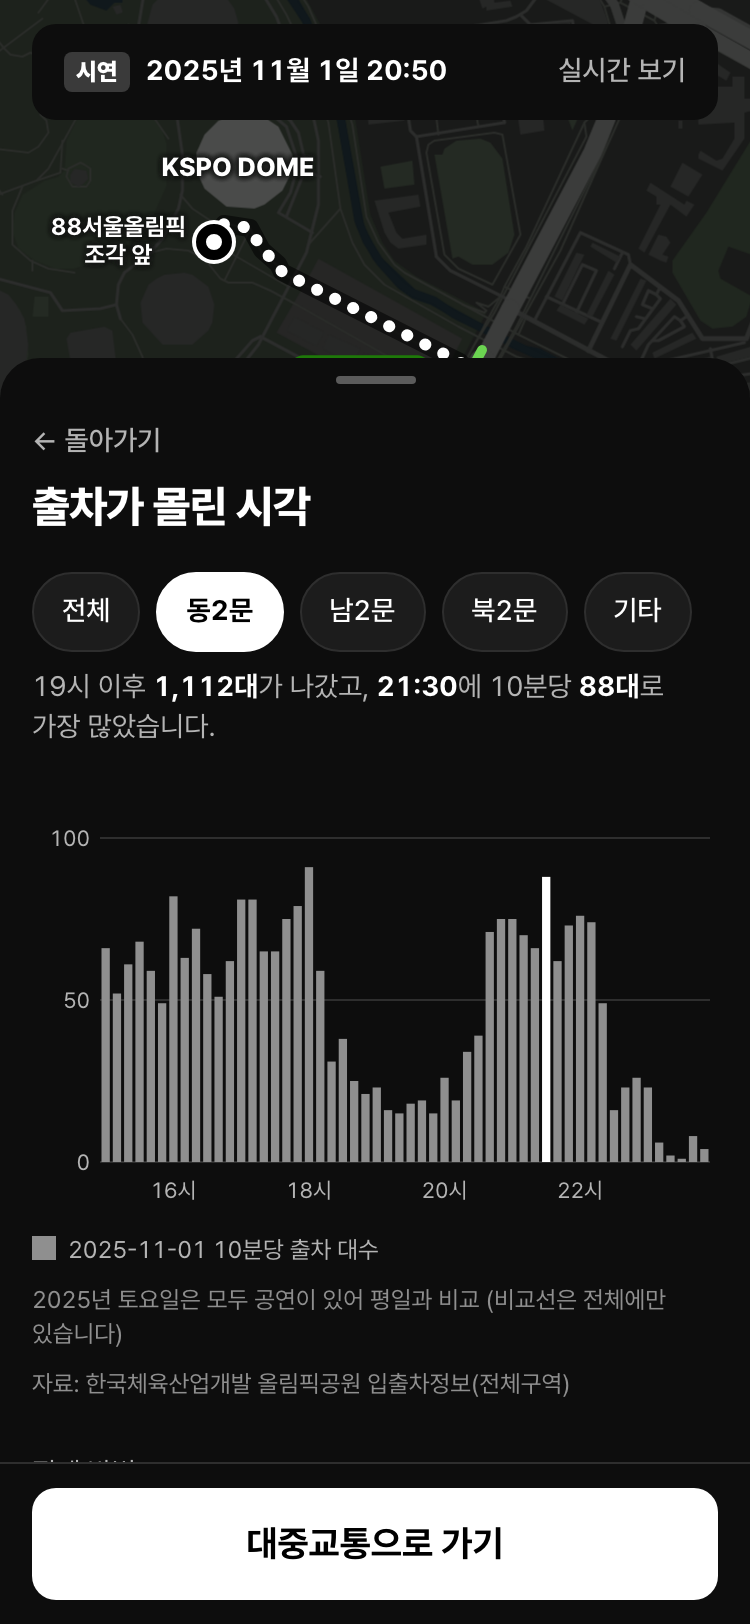
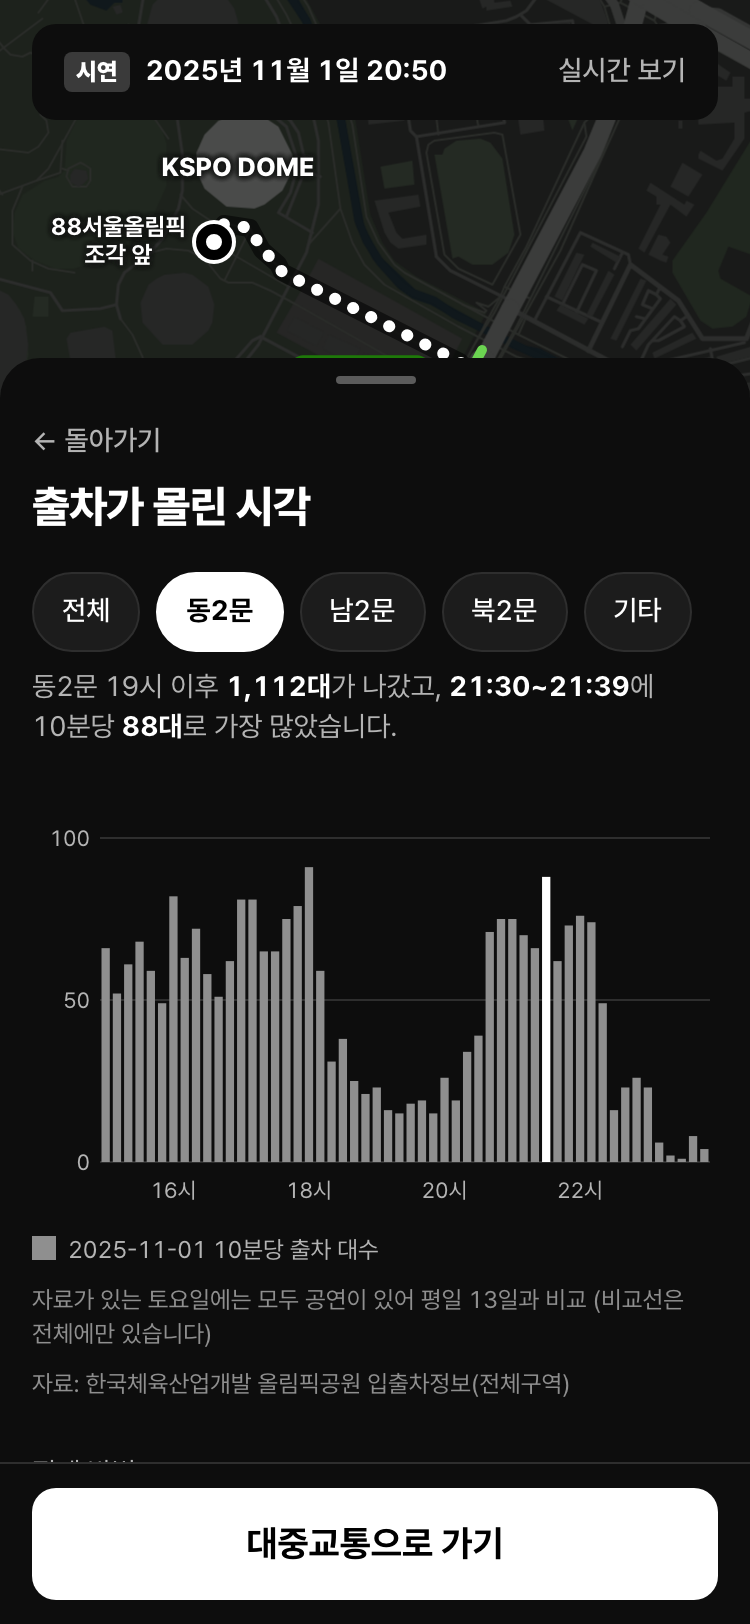
공휴일 제외 13일 출차 비교와 강변역 신호 대기 안내 반영

diff --git a/public/app.js b/public/app.js
@@ -21,7 +21,7 @@
   // 시연 상황 — 모두 예시값(분)
   var SC = {
     basic: { label: '기본', date: '2025년 11월 1일', clock: '20:50', eta: { machon: [9, 22], gangbyeon: [5, 18] } },
-    hurry: { label: '서두르면 가능', date: '2025년 11월 1일', clock: '21:10', eta: { machon: [7, 20], gangbyeon: [9, 22] } },
+    hurry: { label: '도착이 촉박할 때', date: '2025년 11월 1일', clock: '21:10', eta: { machon: [7, 20], gangbyeon: [9, 22] } },
     ended: { label: '막차 이후', date: '2025년 11월 2일', clock: '00:40', ended: true },
     fail: { label: '조회 실패', date: '2025년 11월 1일', clock: '20:50', fail: true }
   };
@@ -62,7 +62,7 @@
       var m = b.sec == null ? null : Math.floor(b.sec / 60), gap = b.sec == null ? null : b.sec / 60 - x.walk;
       return { min: m, gap: gap, msg: b.msg, isLast: b.isLast,
         cls: gap == null ? '' : gap >= HURRY ? 'ok' : gap >= 0 ? 'hurry' : 'miss',
-        text: gap == null ? '확인 필요' : gap >= HURRY ? '탈 수 있음' : gap >= 0 ? '서두르면 가능' : '놓칠 수 있음' };
+        text: gap == null ? '확인 필요' : gap >= HURRY ? '탈 수 있음' : gap >= 0 ? (x.k === 'gangbyeon' ? '신호에 따라 다름' : '서두르면 가능') : '놓칠 수 있음' };
     });
     var f = -1;
     buses.forEach(function (b, i) { if (f < 0 && (b.cls === 'ok' || b.cls === 'hurry')) f = i; });
@@ -188,6 +188,7 @@
     }).join('') + '</div>';
     var b = a.buses[a.f];
     h += bar(x, b);
+    if (x.k === 'gangbyeon') h += '<p class="small">도보 약 ' + x.walk + '분 · 신호 대기 별도</p>';
     if (b) h += '<p class="small">도착 ' + b.min + '분 − 도보 ' + x.walk + '분 = 여유 ' + Math.floor(b.gap) + '분 (' + HURRY + '분 이상이면 탈 수 있음)' + '</p>';
     else if (a.buses.every(function (y) { return y.cls === 'miss'; })) h += '<p class="note">두 버스 모두 걷는 동안 지나갈 수 있습니다. 그다음 차는 배차 간격' + (a.term ? '(약 ' + a.term + '분)' : '') + '을 참고하거나 지하철을 이용하세요.</p>';
     if (a.asOf) h += '<p class="small">서울시 응답 ' + a.asOf + (b && b.msg ? ' · ' + esc(b.msg) : '') + ' · 30초마다 갱신</p>';
@@ -269,7 +270,7 @@
   // make_exit_counts.py 형식과 스크립트/출차분석.py 형식을 모두 받아 하나로 맞춘다.
   function norm(j) {
     if (j.series) return {
-      date: j.target_date, bins: j.series.map(function (x) { return x.t; }), gates: j.gates, n: (j.comparison_days || []).length, basis: j.comparison_basis, cmpName: '10월 공연 없고 비 오지 않은 날 중앙값', foot: '2025년 토요일은 모두 공연이 있어 평일과 비교',
+      date: j.target_date, bins: j.series.map(function (x) { return x.t; }), gates: j.gates, n: (j.comparison_days || []).length, basis: j.comparison_basis, cmpName: '10월 공연 없고 비 오지 않은 평일 중앙값', foot: '자료가 있는 토요일에는 모두 공연이 있어 평일 13일과 비교',
       by: j.gates.reduce(function (o, g) { o[g] = j.series.map(function (x) { return x.by_gate[g] || 0; }); return o; }, {}),
       cmp: (j.comparison_days || []).length ? { all: j.series.map(function (x) { return x.baseline_median || 0; }) } : null,
       start: j.exit_start && j.exit_start.t, peak: j.exit_peak && j.exit_peak.t, notes: j.notes || []
@@ -288,42 +289,45 @@
       });
   }
   function nice(v) { var p = Math.pow(10, Math.floor(Math.log10(v))), f = v / p; return (f <= 1 ? 1 : f <= 2 ? 2 : f <= 3 ? 3 : f <= 5 ? 5 : 10) * p; }
+  function interval(t) { return t + '~' + t.slice(0, 4) + '9'; }
   function chart() {
     var box = $('car'), d = exitData; if (!box) return;
     var v = d.bins.map(function (_, i) { return gate === 'all' ? d.gates.reduce(function (s, g) { return s + (d.by[g][i] || 0); }, 0) : d.by[gate][i] || 0; });
     var c = d.cmp && d.cmp[gate], top = nice(Math.max.apply(null, v.concat(c || [], [1]))), eve = function (i) { return d.bins[i] >= '19:00'; }, late = v.map(function (n, i) { return eve(i) ? n : -1; });
     // 강조하는 막대는 19시 이후 최고(전체는 집계 파일의 exit_peak). 17시대 낮 출차가 더 많을 수 있어 하루 최고와 구분한다.
     var pk = gate === 'all' && d.bins.indexOf(d.peak) >= 0 ? d.bins.indexOf(d.peak) : late.indexOf(Math.max.apply(null, late));
+    var scope = gate === 'all' ? '공원 전체' : gate;
+    var peaks = d.bins.filter(function (_, i) { return eve(i) && v[i] === v[pk]; }).map(interval).join(', ');
     var sum19 = v.reduce(function (s, n, i) { return s + (eve(i) ? n : 0); }, 0);
     var W = 343, H = 220, l = 34, r = 4, t = 34, b = 24, pw = W - l - r, ph = H - t - b, sl = pw / d.bins.length;
-    var y = function (n) { return t + ph - n / top * ph; }, X = function (i) { return l + i * sl; }, s = '<svg viewBox="0 0 ' + W + ' ' + H + '" role="img" aria-label="10분 단위 출차 대수. 19시 이후 가장 많은 구간 ' + d.bins[pk] + ', ' + v[pk] + '대">';
+    var y = function (n) { return t + ph - n / top * ph; }, X = function (i) { return l + i * sl; }, s = '<svg viewBox="0 0 ' + W + ' ' + H + '" role="img" aria-label="10분 단위 출차 대수. 19시 이후 가장 많은 구간 ' + interval(d.bins[pk]) + ', ' + v[pk] + '대">';
     [0, .5, 1].forEach(function (f) { s += '<line class="grid" x1="' + l + '" x2="' + (W - r) + '" y1="' + y(top * f) + '" y2="' + y(top * f) + '"/><text x="' + (l - 5) + '" y="' + (y(top * f) + 4) + '" text-anchor="end">' + top * f + '</text>'; });
     d.bins.forEach(function (k, i) {
       s += '<rect class="b' + (i === pk ? ' hi' : '') + '" x="' + (X(i) + .75) + '" y="' + y(v[i]) + '" width="' + Math.max(1, sl - 1.5) + '" height="' + (t + ph - y(v[i])) + '"/>';
       if (k.slice(3) === '00' && +k.slice(0, 2) % 2 === 0) s += '<text x="' + (X(i) + sl / 2) + '" y="' + (H - 6) + '" text-anchor="' + (i ? 'middle' : 'start') + '">' + +k.slice(0, 2) + '시</text>';
     });
     if (c) s += '<polyline class="cmp" points="' + d.bins.map(function (_, i) { return X(i) + ',' + y(c[i] || 0) + ' ' + X(i + 1) + ',' + y(c[i] || 0); }).join(' ') + '"/>';
-    if (gate === 'all') [[d.start, '퇴장 출차 시작', 12], [d.peak, '퇴장 출차 최고', 26]].forEach(function (m) {
+    if (gate === 'all') [[d.start, '출차가 크게 늘어난 첫 10분', 12], [d.peak, '가장 많은 10분', 26]].forEach(function (m) {
       var i = d.bins.indexOf(m[0]); if (i < 0) return;
       var x = X(i) + sl / 2, e = m[2] === 12 ? x > 130 : x > W - 100;
-      s += '<line class="mk" x1="' + x + '" x2="' + x + '" y1="' + (m[2] - 8) + '" y2="' + (t + ph) + '"/><text x="' + (e ? x - 4 : x + 4) + '" y="' + m[2] + '" text-anchor="' + (e ? 'end' : 'start') + '">' + m[1] + ' ' + m[0] + '</text>';
+      s += '<line class="mk" x1="' + x + '" x2="' + x + '" y1="' + (m[2] - 8) + '" y2="' + (t + ph) + '"/><text x="' + (e ? x - 4 : x + 4) + '" y="' + m[2] + '" text-anchor="' + (e ? 'end' : 'start') + '">' + m[1] + '</text>';
     });
     d.bins.forEach(function (_, i) { s += '<rect data-b="' + i + '" x="' + X(i) + '" y="0" width="' + sl + '" height="' + H + '" fill="transparent"/>'; });
     box.innerHTML = '<div class="chips">' + ['all'].concat(d.gates).map(function (g) { return '<button type="button" data-gate="' + esc(g) + '" aria-pressed="' + (g === gate) + '">' + (g === 'all' ? '전체' : esc(g)) + '</button>'; }).join('') + '</div>' +
       '<p class="note">' + (gate === 'all' && d.start && d.peak
-        ? '<b>' + d.start + '</b>부터 출차가 크게 늘어 <b>' + d.bins[pk] + '</b>에 10분당 <b>' + v[pk] + '대</b>로 19시 이후 가장 많았습니다.'
-        : '19시 이후 <b>' + sum19.toLocaleString('ko-KR') + '대</b>가 나갔고, <b>' + d.bins[pk] + '</b>에 10분당 <b>' + v[pk] + '대</b>로 가장 많았습니다.') + '</p>' +
+        ? '출차가 크게 늘어난 첫 10분: ' + interval(d.start) + ' · 공원 전체 ' + v[d.bins.indexOf(d.start)] + '대. 19시 이후 가장 많은 10분: ' + peaks + ' · 각 구간 공원 전체 <b>' + v[pk] + '대</b>.'
+        : scope + ' 19시 이후 <b>' + sum19.toLocaleString('ko-KR') + '대</b>가 나갔고, <b>' + interval(d.bins[pk]) + '</b>에 10분당 <b>' + v[pk] + '대</b>로 가장 많았습니다.') + '</p>' +
       '<div class="chart">' + s + '</svg><div class="tip"></div></div><p class="legend"><span><i></i>' + esc(d.date) + ' 10분당 출차 대수</span>' + (c ? '<span><i class="c"></i>' + esc(d.cmpName) + '</span>' : '') + '</p>' +
       (d.foot ? '<p class="small">' + esc(d.foot) + (c ? '' : ' (비교선은 전체에만 있습니다)') + '</p>' : '') +
       '<p class="small">자료: 한국체육산업개발 올림픽공원 입출차정보(전체구역)</p>' +
       '<details><summary>집계 방법</summary>' + (d.basis ? '<p>비교 기준: ' + esc(d.basis) + '.</p>' : '') + d.notes.map(function (n) { return '<p>' + esc(n) + '.</p>'; }).join('') +
       (d.foot ? '<p>비교일은 평일이라 18시 전후에 퇴근 시간 출차가 섞여 있습니다.</p>' : '') + '<p>공연의 실제 종료 시각은 확인되지 않아 가로축은 시계 시각입니다.</p></details>' +
-      '<details><summary>표로 보기</summary><table><thead><tr><th>시각</th><th>출차</th>' + (c ? '<th>비교</th>' : '') + '</tr></thead><tbody>' + d.bins.map(function (k, i) { return '<tr><td>' + k + '</td><td>' + v[i] + '</td>' + (c ? '<td>' + c[i] + '</td>' : '') + '</tr>'; }).join('') + '</tbody></table></details>';
+      '<details><summary>표로 보기</summary><table><thead><tr><th>시각</th><th>출차</th>' + (c ? '<th>비교</th>' : '') + '</tr></thead><tbody>' + d.bins.map(function (k, i) { return '<tr><td>' + interval(k) + '</td><td>' + v[i] + '</td>' + (c ? '<td>' + c[i] + '</td>' : '') + '</tr>'; }).join('') + '</tbody></table></details>';
     var ch = box.querySelector('.chart'), tip = box.querySelector('.tip');
     var show = function (e) {
       var k = e.target.dataset && e.target.dataset.b; if (k == null) return;
       var rc = ch.getBoundingClientRect(), tr = e.target.getBoundingClientRect();
-      tip.textContent = d.bins[k] + ' · ' + v[k] + '대' + (c ? ' (비교 ' + c[k] + '대)' : '');
+      tip.textContent = interval(d.bins[k]) + ' · ' + scope + ' ' + v[k] + '대' + (c ? ' (비교 ' + c[k] + '대)' : '');
       tip.style.display = 'block'; tip.style.top = '60px';
       tip.style.left = Math.max(70, Math.min(rc.width - 70, tr.left - rc.left + tr.width / 2)) + 'px';
     };
